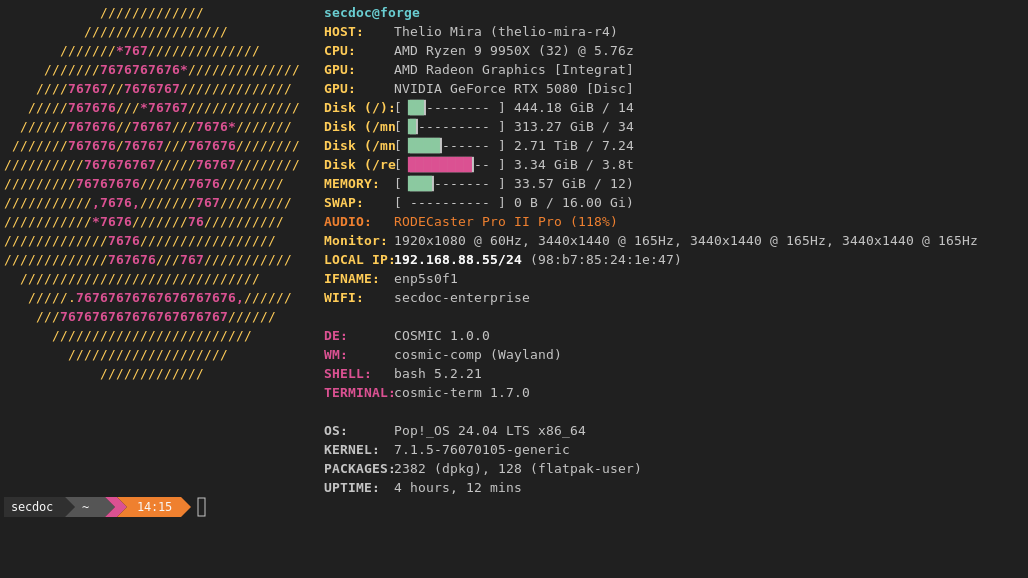
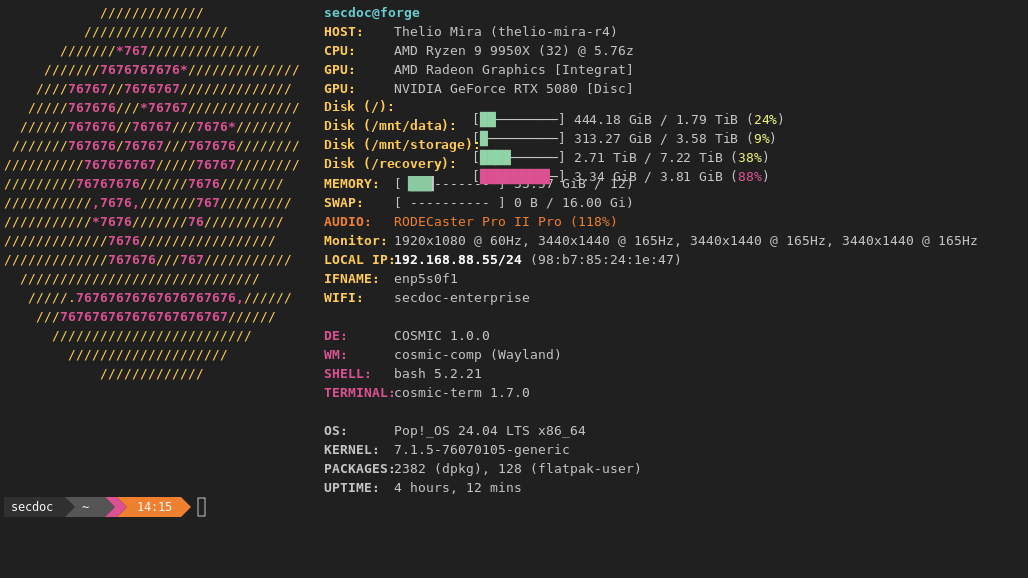
fix: show full Fastfetch disk mount points (#4)
Display complete disk mount-point labels in Fastfetch and update the implementation proof.

Changed region(s): [[0.3113, 0.1557, 0.7782, 0.3426]]

diff --git a/README.md b/README.md
@@ -6,7 +6,7 @@
 
 This is the SECDOC downstream distribution of [ChrisTitusTech/mybash](https://github.com/ChrisTitusTech/mybash). It tracks current upstream behavior while retaining SECDOC's nano preference, funding metadata, dense Fastfetch layout, Alacritty profile, and branded prompt. Upstream authorship and the MIT license are preserved.
 
-The default SECDOC presentation uses the Pop!_OS slash-and-76 ASCII logo in a high-density two-column Fastfetch layout. It reports host, hardware, storage, memory, audio, displays, network, COSMIC desktop, shell, OS, kernel, packages, and uptime. The compact Starship prompt conditionally displays Git state, non-zero exit status, background jobs, long command duration, and time.
+The default SECDOC presentation uses the Pop!_OS slash-and-76 ASCII logo in a high-density two-column Fastfetch layout. It reports host, hardware, storage with full disk mount-point labels, memory, audio, displays, network, COSMIC desktop, shell, OS, kernel, packages, and uptime. The compact Starship prompt conditionally displays Git state, non-zero exit status, background jobs, long command duration, and time.
 
 ## Table of Contents
 
